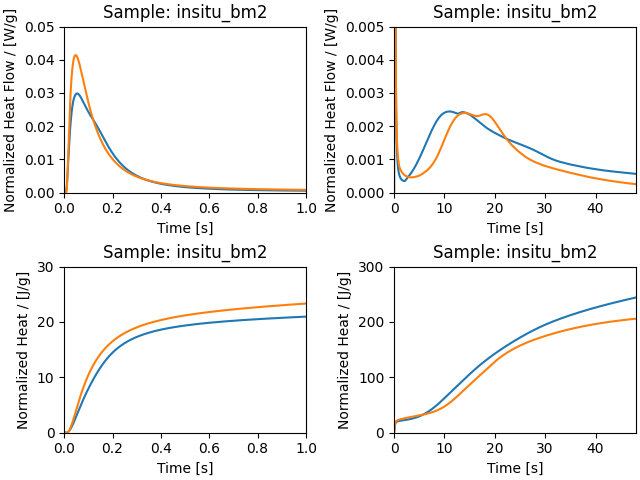
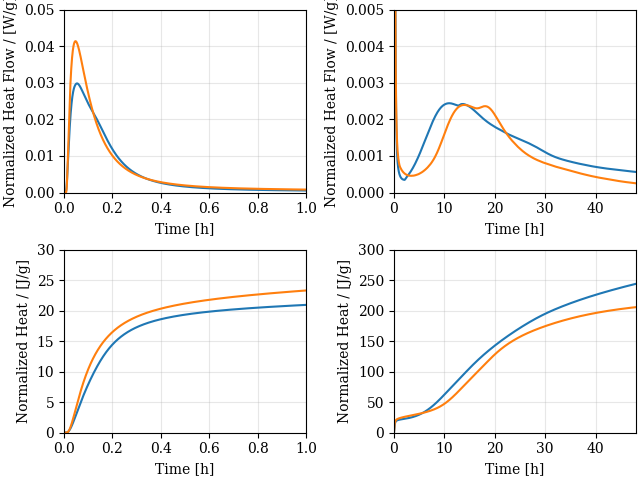
started working on example tian

diff --git a/calocem/plotting.py b/calocem/plotting.py
@@ -95,7 +95,7 @@ class SimplePlotter:
 
                 # Apply unit conversions
                 plot_data = sample_data.copy()
-                plot_data["time_s"] = plot_data["time_s"] * x_factor
+                plot_data = plot_data.assign(time_s=plot_data["time_s"] * x_factor)
 
                 # Convert heat columns
                 heat_cols = [col for col in plot_data.columns if "heat" in col]
@@ -133,7 +133,7 @@ class SimplePlotter:
                 fig, ax = plt.subplots(figsize=(10, 6))
 
             # Plot main data
-            ax.plot(data[age_col], data[target_col], label=sample)
+            ax.plot(data[age_col], data[target_col], label=data["sample_short"].iloc[0])
 
             # Mark peaks
             if len(peaks) > 0:

diff --git a/calocem/file_io.py b/calocem/file_io.py
@@ -328,7 +328,8 @@ class XLSReader(FileReader):
                 # Convert columns to float
                 for col in df_data.columns:
                     try:
-                        df_data[col] = pd.to_numeric(df_data[col], errors="coerce")
+                        # df_data[col] = pd.to_numeric(df_data[col], errors="coerce")
+                        df_data = df_data.assign(**{col: pd.to_numeric(df_data[col], errors="coerce")})
                     except Exception:
                         pass
 

diff --git a/examples/example_tian_and_looping_plot.py b/examples/example_tian_and_looping_plot.py
@@ -3,7 +3,7 @@ from pathlib import Path
 
 import matplotlib.pyplot as plt
 
-from calocem.tacalorimetry import Measurement, ProcessingParameters
+from calocem import Measurement, ProcessingParameters
 
 
 datapath = Path(__file__).parent.parent / "calocem" / "DATA"
